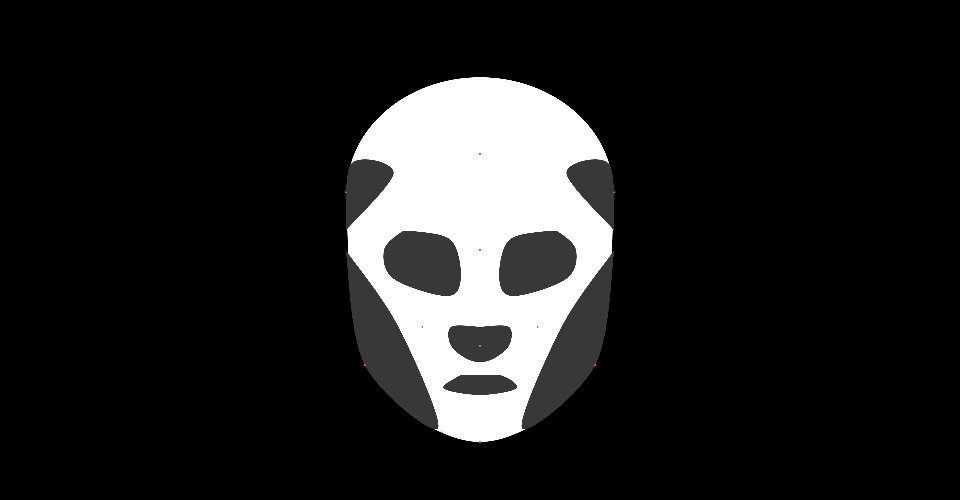
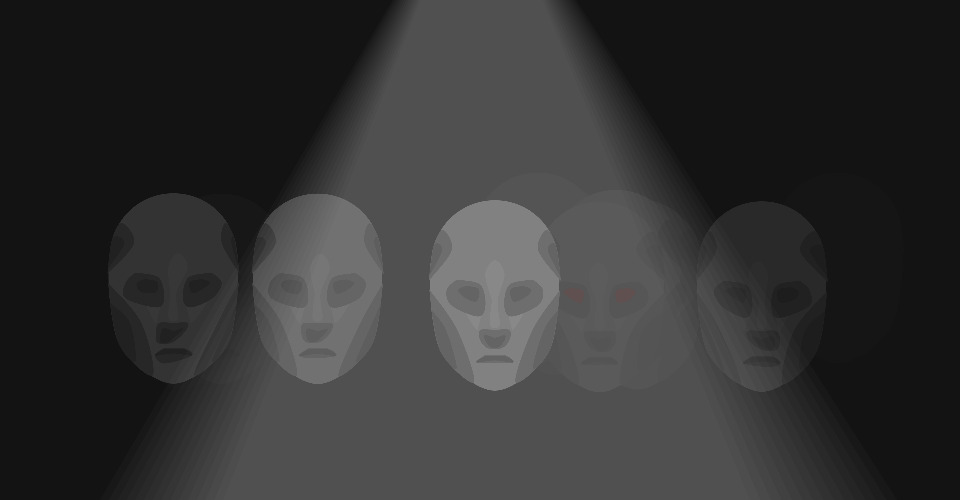
last commit!! hooray!!

diff --git a/face_code.js b/face_code.js
@@ -6,7 +6,7 @@ function myFace(cheek,nose,eyes,temples,mouth,sideRight, evilness) {
 
   angleMode(DEGREES);
 
-
+//colours
   let baseC = 115;
   let high = 130;
   let midd = 80;
@@ -19,27 +19,17 @@ function myFace(cheek,nose,eyes,temples,mouth,sideRight, evilness) {
   noStroke();
 ellipse(midX,midY-3,13,12);
 
-// stroke(100,200,100);
 stroke(baseC);
 beginShape();
-  // curveVertex(-7,-3);
   vertex(6,-3); 
-  // curveVertex(-6.7,-3);
   curveVertex(-5,-3);
   curveVertex(-6.7,-1.5);
   curveVertex(-5.5,6);
   curveVertex(0,10);
   curveVertex(5.5,6);
   curveVertex(6.7,-1.5);
-  // vertex(6.9,-3);
 endShape(CLOSE);
 
-
-// noStroke();
-// fill(80);
-// ellipse(midX,midY-3,13,12);
-// fill(135);
-// ellipse(midX,midY-1,13,8)
 
 //-----------------------------------------------------------HIGHLIGHT-----------------------------
 
@@ -57,7 +47,6 @@ curveVertex(-sideRight/2-1,-1.6);//top right
 endShape(CLOSE);
 
 beginShape();//cheek left
-// vertex(-1,2);
 curveVertex(-1,1);
 curveVertex(-1.8,4);
 curveVertex((-sideRight/2)-4,0);
@@ -73,21 +62,6 @@ endShape(CLOSE);
 
 
 // --------------------SHADOWS-----------------------------MID-------------------------------
-fill(135);
-
-// beginShape();//top of head
-// vertex(-6.5,-2.3);
-// curveVertex(-6.5,-2.3);
-// curveVertex(-4.5,-7.5);
-// curveVertex(0,-8);
-// curveVertex(6.85,-2);
-// curveVertex(0,-6);
-// endShape(CLOSE);
-
-// strokeWeight(1);
-// stroke(80);
-// noFill();
-// arc(midX,midY-3,13,12,180,0,HALF);
 
 fill(midd);
 stroke(midd);
@@ -233,9 +207,6 @@ beginShape();//temple right___________________
   curveVertex(6.3,-4.5);
 endShape(CLOSE);
 
-beginShape();//top of the head FILL IN @@@@@@@@@@@@@@@@@@@@@@@@@@@@@@@@@@@@@@@@@@@
-endShape(CLOSE);
-
 beginShape();//mouf__________________
   curveVertex(-1,6.6);
   curveVertex(1,6.6);
@@ -245,24 +216,6 @@ beginShape();//mouf__________________
 endShape(CLOSE);
 
 
-//guideline points MAIN-----------------------------------------------------------------------
-// stroke(255,100,100);
-
-// beginShape(POINTS);
-// vertex(-7,-3);//top left
-// vertex(-6,6);
-// vertex(0,10);//chin
-// vertex(6,6);
-// vertex(7,-3);//top right
-// //secondary
-// vertex(0,0);//eyes
-// vertex(0,-5)
-// //shadow ones
-// vertex(-3,4);//hollower cheek ish left
-// vertex(3,4);//hollow cheek right
-// vertex(-2,9.5);//chin outline
-// vertex(0,5);
-// endShape(CLOSE);
 
 }
 

diff --git a/arrangement.js b/arrangement.js
@@ -63,15 +63,12 @@ function draw () {
           areTheyEvil = true;
         }
 
-      push();
+      push();//Face
         let place = map(sideRight,-1,1,15,85);//x
         let upsie = map(eyes,1.8,3,130,150);//y
         translate(place*10, upsie*2);
-          // map (sideRight, -1, 1, -30, 30 )
-          // draw light // the x value is the map the y is - 30 
 
         scale(w/25, h/25);
-        //function myFace(cheek,nose,eyes,temples,mouth,sideRight, evilness) {
         myFace(cheek,nose,eyes,temples,mouth,sideRight,areTheyEvil)
         pop();
         fill(20,80);
@@ -85,7 +82,6 @@ for(i=0; i<15; i++){//spotlight
     noStroke();
     fill(255,5);
     strokeWeight(10);
-    // triangle(480,-150,sides*3,500,sides*13,500);
     triangle(480,-150,leftSpot,500,rightSpot*1.5,500);
 
   } 

diff --git a/README.md b/README.md
@@ -2,8 +2,13 @@
 [![Open in Visual Studio Code](https://classroom.github.com/assets/open-in-vscode-c66648af7eb3fe8bc4f294546bfd86ef473780cde1dea487d3c4ff354943c9ae.svg)](https://classroom.github.com/online_ide?assignment_repo_id=10649353&assignment_repo_type=AssignmentRepo)
 ## 2023 MDDN342 Assignment 2: Randomised Collections
 
-I've got the majority of my code working, and I'm still working on the aesthetics of my design. The colour palette is a big part of how the design will turn out, and I really need to make sure it is perfect. I've gone through about three different iterations of it now, but I'm still not sold on the current one. 
 
-The shape of the highlights and shadows are also not quite right to me, but I think I need to fix the colours for it to look better. 
+This is my final outcome of my second project for my Creative Coding class. 
 
-The next stage for me is to keep tweaking the little highlights and shadows, making sure it is sitting how I want it to.
+The brief said that we needed to make a collection of randomized faces, and have at least two continuous variability, and one of discrete variability. Different elements of the face will have randomized values, making every face different.
+
+My design is based off of high constrast photography, where the shadows become very dark and the highlights become very bright. It is a very dramatic feel, but thats exactly what I was going for. I used custom shapes to create the head shape and the shadows, and layered them on top of each other. I plugged maps into these shadows to make the random function change the shape and size of the shadows, and manipulate the "light source". The design is meant to have an uncomfortable feeling to it, and be eery and strange. I added to this by making a spot light, and only shining it in the middle. I then added in some transparent rectangles to create the illusion of depth, and making it look like the faces were behind eachother, watching you from afar. I also added in a random set of red eyes, that will show up rarely. This will add to the unsettling aura from the faces, and make it not seem real.
+
+    
+
+
